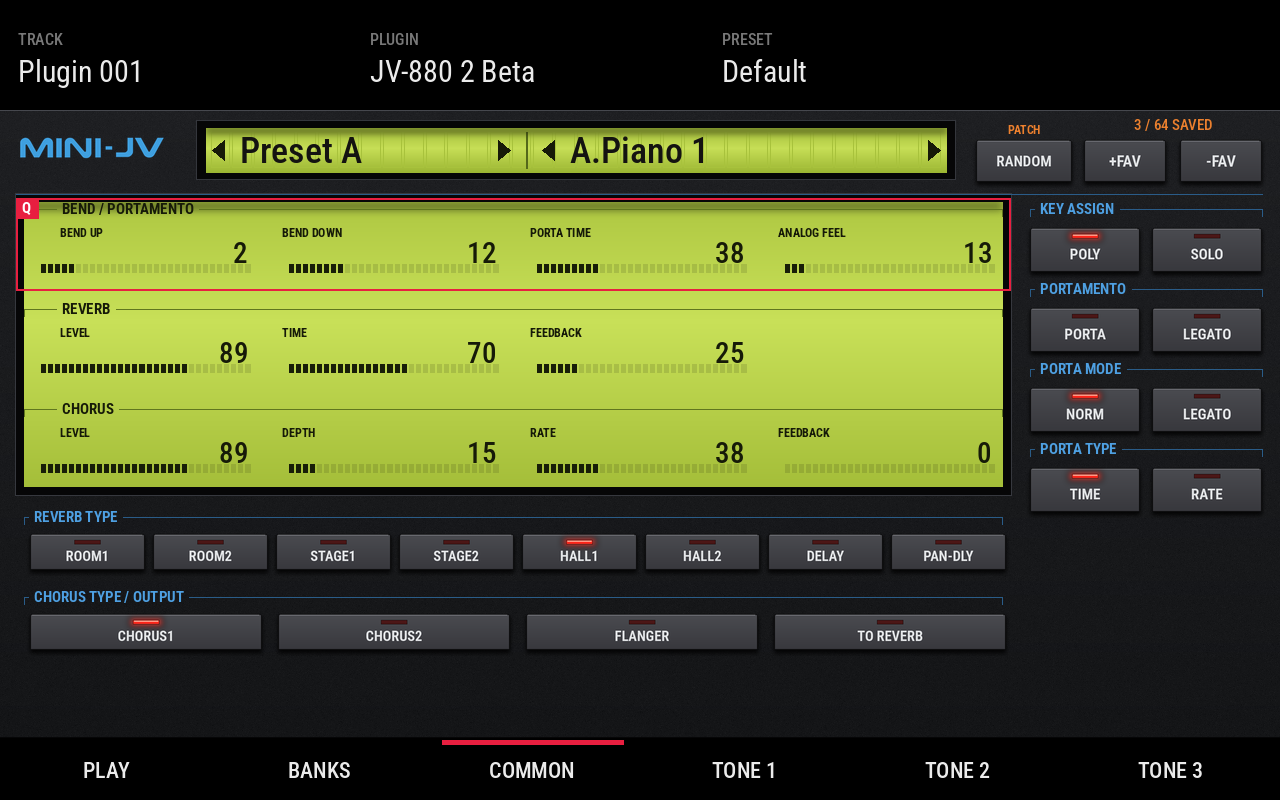
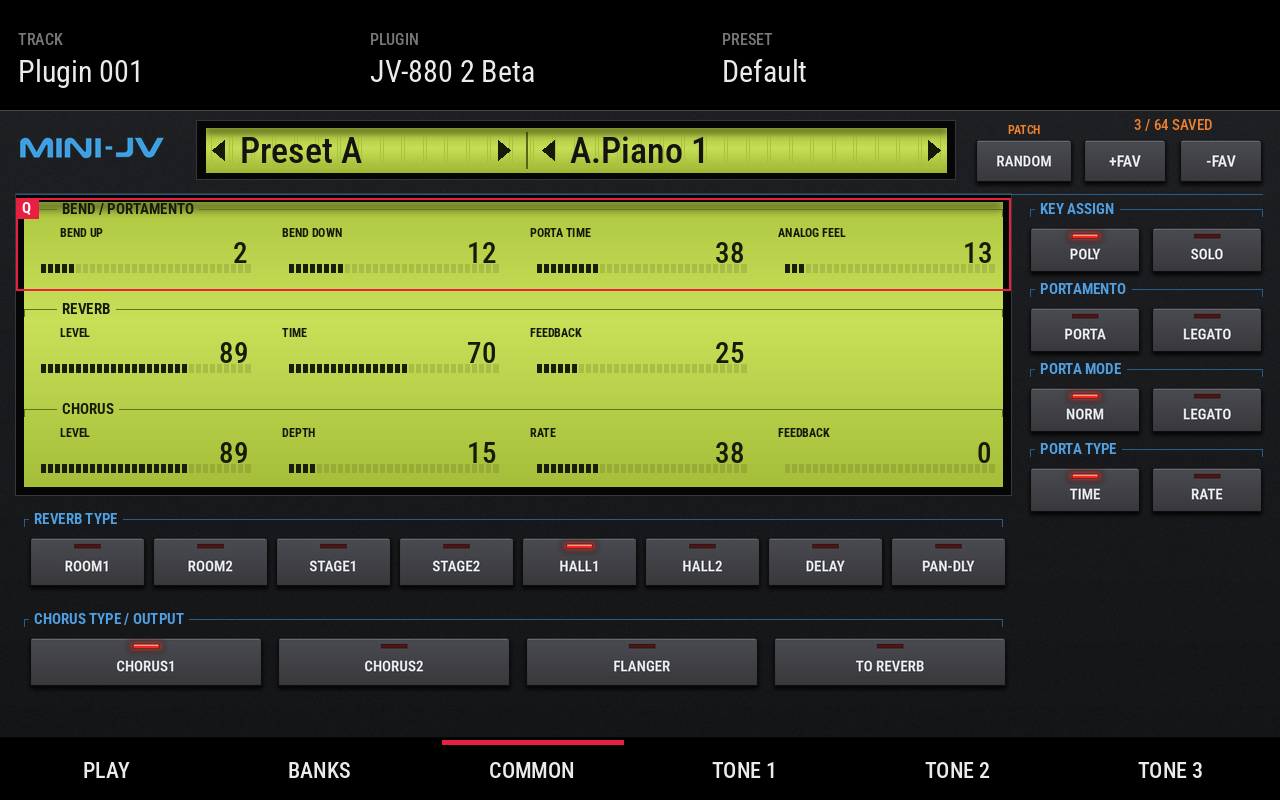
COMMON: taller reverb / chorus type keys
Claude-Session: https://claude.ai/code/session_01CpoP2rxdAgnEQiaAx5dpUz

Changed region(s): [[0.0, 0.625, 0.8125, 0.875]]

diff --git a/tools/skin_pages.py b/tools/skin_pages.py
@@ -431,11 +431,11 @@ def common_page():
         p.slider(k, col(i), 316, SW, n, s)
     p.qlink_group((X0, 288, X1, 380), [x[0] for x in ctl])
     # effect types: physical keys under the screen, on its column grid (two reverb types per column)
-    p.header(X0 + 8, X1 - 8, 412, "REVERB TYPE")
-    p.segments(c("reverbtype"), col(0), 424, 4 * SW + 48, 36, gap=8, sel=4)
-    p.header(X0 + 8, X1 - 8, 492, "CHORUS TYPE / OUTPUT")
-    p.segments(c("chorustype"), col(0), 504, 3 * SW + 32, 36, gap=16, sel=0)
-    p.toggle(c("chorusoutput"), col(3), 504, SW, 36, "TO REVERB")
+    p.header(X0 + 8, X1 - 8, 414, "REVERB TYPE")
+    p.segments(c("reverbtype"), col(0), 428, 4 * SW + 48, 48, gap=8, sel=4)
+    p.header(X0 + 8, X1 - 8, 514, "CHORUS TYPE / OUTPUT")
+    p.segments(c("chorustype"), col(0), 528, 3 * SW + 32, 48, gap=16, sel=0)
+    p.toggle(c("chorusoutput"), col(3), 528, SW, 48, "TO REVERB")
     # key mode: stacked in the right column
     for title, y in (("KEY ASSIGN", 104), ("PORTAMENTO", 184), ("PORTA MODE", 264), ("PORTA TYPE", 344)):
         p.header(RX, 1262, y, title)
